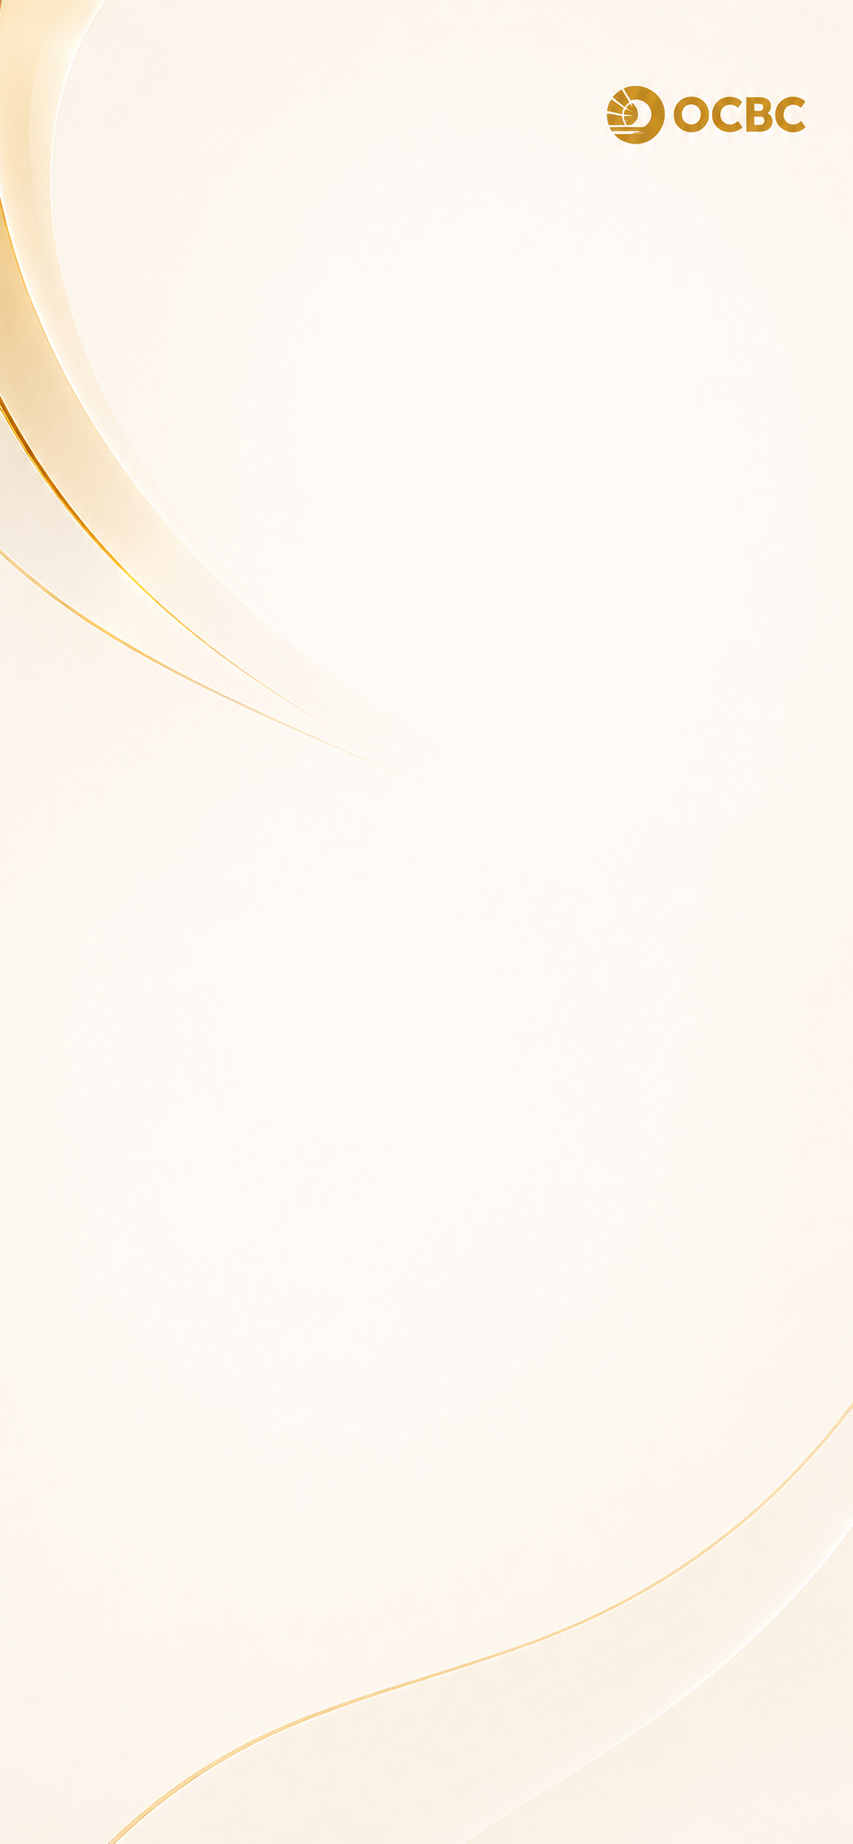
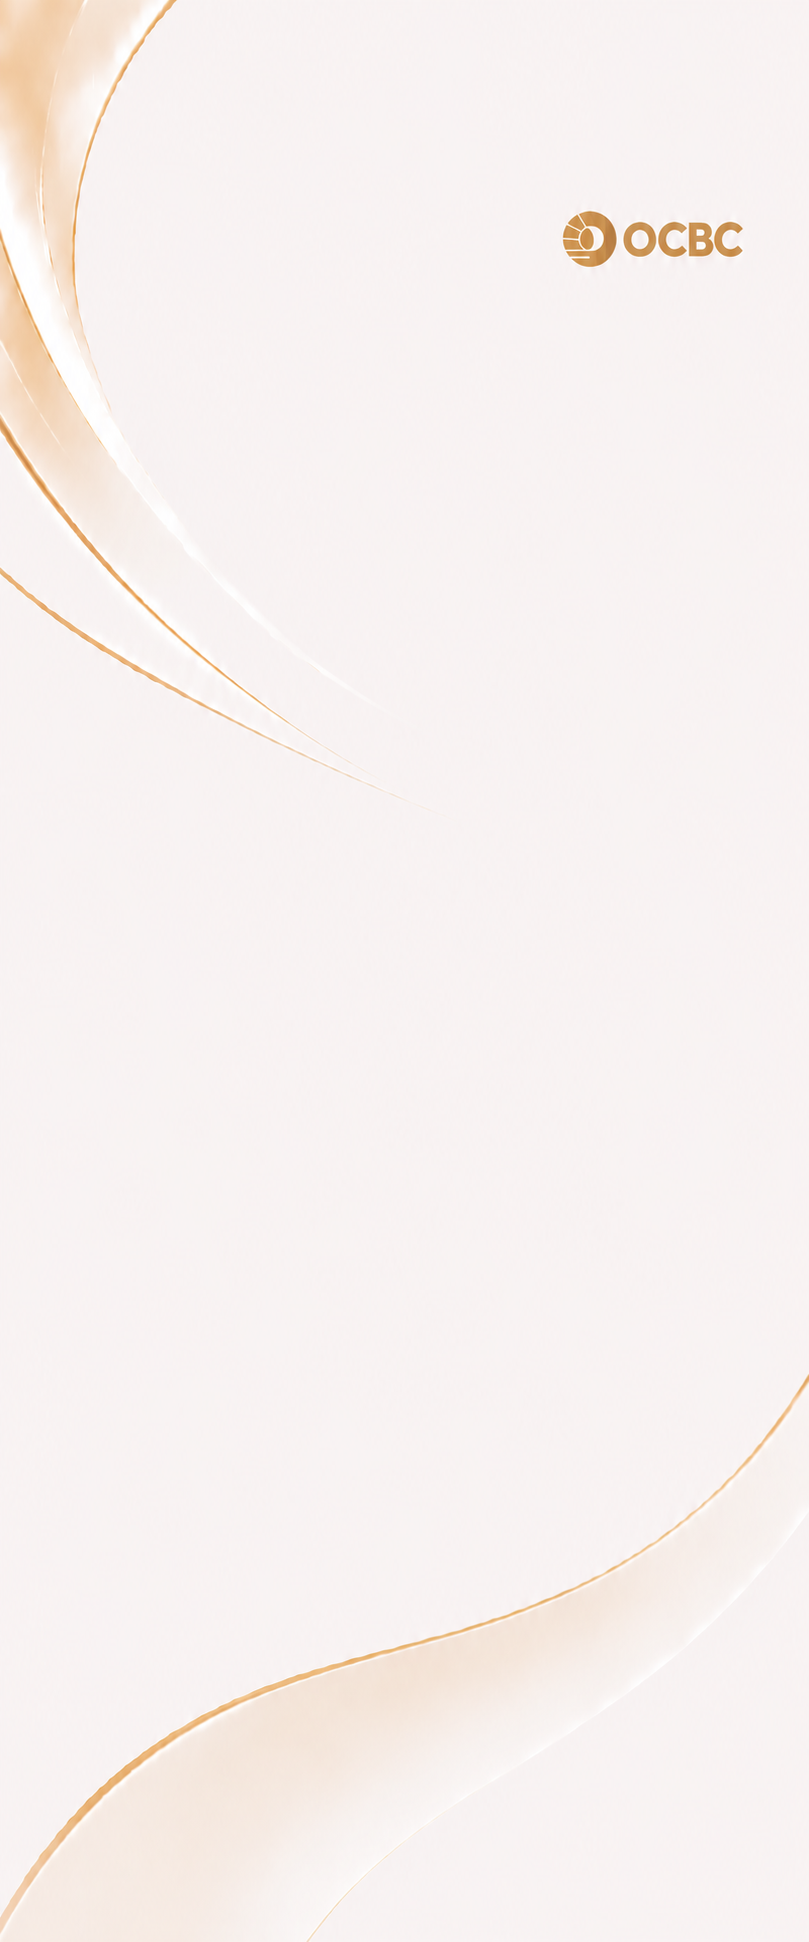
update ptt

diff --git a/OCBC_MyOneTeam_ExpDay_Demo.html b/OCBC_MyOneTeam_ExpDay_Demo.html
@@ -853,8 +853,8 @@
 <div class="phone">
   <div class="screen">
     <div class="notch" style="position:absolute;top:0;left:50%;transform:translateX(-50%);width:122px;height:32px;background:#0a0b0d;border-radius:0 0 20px 20px;z-index:50"></div>
-    <div class="screenbg" id="screenbg" style="display:none;position:absolute;top:0;left:0;right:0;bottom:0;overflow:hidden;z-index:0;pointer-events:none">
-      <img src="images/ocbc-ea-myaiteam.png" alt="" style="position:absolute;left:0;top:-80px;width:100%;height:calc(100% + 80px);object-fit:cover;object-position:center top;display:block">
+    <div class="screenbg" id="screenbg" style="display:none;position:absolute;top:0;left:0;right:0;bottom:0;overflow:hidden;z-index:0;pointer-events:none;background:#fbf3e9">
+      <img src="images/ocbc-ea-myaiteam.png" alt="" style="position:absolute;left:0;top:-40px;width:100%;height:auto;display:block">
     </div>
     <div class="statusbar" id="statusbar"><span id="clock">9:41</span><span>5G&nbsp; 100%</span></div>
     <div class="view" id="view"></div>
